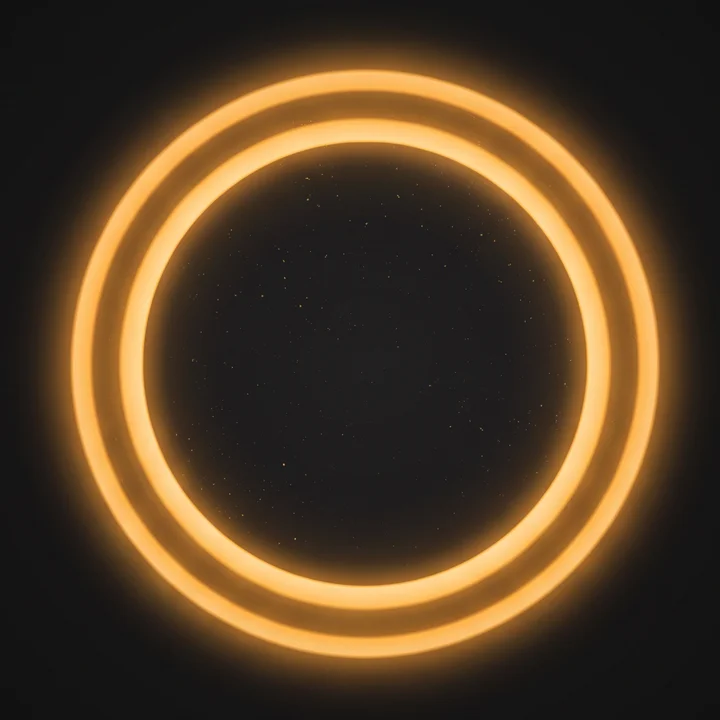
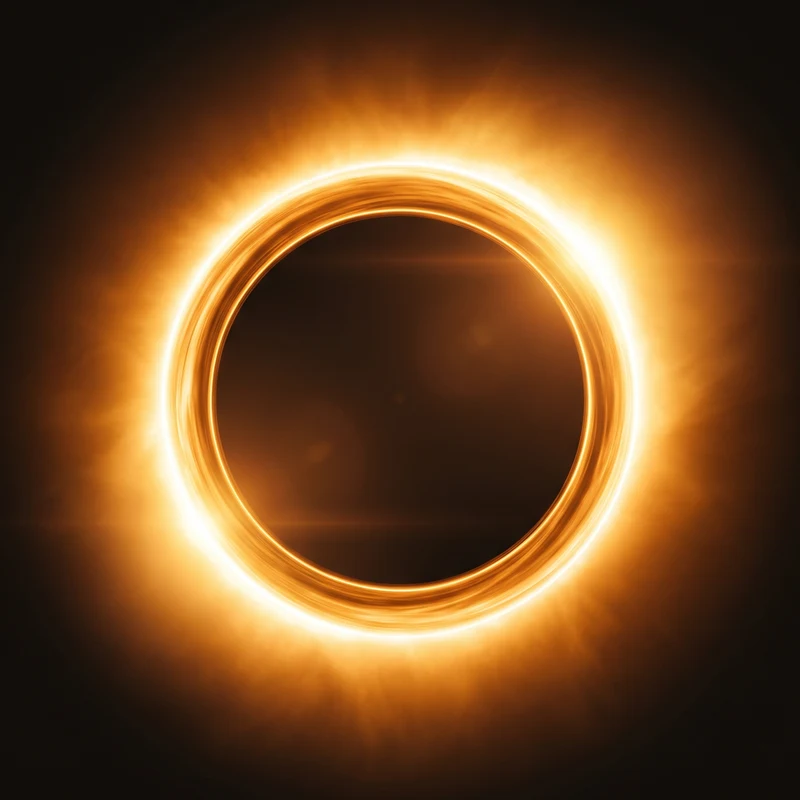
Redesign case study as unified panel with real KPI stats
Wraps the HausManager Pro case study (text, video+ring, KPI row) in a
single bordered panel, matching the reference layout where stats sit
directly below the visual instead of in the text column. Replaces the
qualitative stat tiles with real numbers (20+ hrs/month saved, 1 tool
instead of 5-6, 500 EUR/month saved) and regenerates the Higgsfield ring
with a bolder, more vivid glow to match.

Claude-Session: https://claude.ai/code/session_01Fv5E6jcMdjpaNDmjUW3CLQ

diff --git a/onyx-3d/components/CaseStudySection.tsx b/onyx-3d/components/CaseStudySection.tsx
@@ -1,111 +1,115 @@
 import Image from "next/image";
 
-const stats = [
-  { label: "Vollständig übergeben", sub: "Code, Zugänge & Dokumentation" },
-  { label: "100 % Eigentum", sub: "Kein Onyx-Zugriff mehr danach" },
-  { label: "DSGVO-konform", sub: "Gehostet in Deutschland, mit AVV" },
-  { label: "Im Alltag im Einsatz", sub: "Seit der Übergabe produktiv genutzt" },
+const kpis = [
+  { value: "20+", label: "Std./Monat gespart", sub: "Weniger manueller Aufwand im Tagesgeschäft" },
+  { value: "1 statt 5–6", label: "Tools im Einsatz", sub: "Ein System ersetzt mehrere Abos" },
+  { value: "500 €", label: "Ersparnis/Monat", sub: "≈ 6.000 € im Jahr an Tool-Kosten" },
 ];
 
 export default function CaseStudySection() {
   return (
     <section className="py-24" style={{ borderTop: "1px solid var(--hairline)" }}>
       <div className="mx-auto px-7" style={{ maxWidth: 1180 }}>
-        <div className="grid grid-cols-1 lg:grid-cols-2 gap-12 items-center">
-          <div>
-            <span
-              className="inline-flex items-center gap-2 rounded-full px-4 py-1.5 mb-5 mono"
-              style={{
-                fontSize: 11.5,
-                letterSpacing: "0.05em",
-                textTransform: "uppercase",
-                color: "var(--amber)",
-                background: "var(--amber-soft)",
-                border: "1px solid rgba(232,163,61,0.3)",
-              }}
-            >
-              Kundencase · gebaut &amp; übergeben
-            </span>
-            <h3 style={{ fontSize: "1.4rem", marginBottom: 6 }}>HausManager Pro</h3>
-            <h2 style={{ fontSize: "clamp(1.6rem, 3vw, 2.2rem)", marginBottom: 18 }}>
-              Vom Excel-Chaos zum eigenen System.
-            </h2>
-            <p style={{ color: "var(--warm-grey-dim)", fontSize: "1.02rem", lineHeight: 1.75, marginBottom: 28 }}>
-              Für eine Hausverwaltung haben wir ein komplettes CRM von Grund
-              auf entwickelt und vollständig übergeben. Kein Produkt zum
-              Kaufen, sondern ein Beispiel dafür, was für dein Unternehmen
-              möglich ist.
-            </p>
+        <div
+          className="rounded-2xl p-6 md:p-10"
+          style={{ background: "var(--near-black-2)", border: "1px solid rgba(232,163,61,0.3)" }}
+        >
+          <div className="grid grid-cols-1 lg:grid-cols-2 gap-12 items-center mb-10">
+            <div>
+              <span
+                className="inline-flex items-center gap-2 rounded-full px-4 py-1.5 mb-5 mono"
+                style={{
+                  fontSize: 11.5,
+                  letterSpacing: "0.05em",
+                  textTransform: "uppercase",
+                  color: "var(--amber)",
+                  background: "var(--amber-soft)",
+                  border: "1px solid rgba(232,163,61,0.3)",
+                }}
+              >
+                Kundencase · gebaut &amp; übergeben
+              </span>
+              <h3 style={{ fontSize: "1.4rem", marginBottom: 6 }}>HausManager Pro</h3>
+              <h2 style={{ fontSize: "clamp(1.6rem, 3vw, 2.2rem)", marginBottom: 18 }}>
+                Vom Excel-Chaos zum eigenen System.
+              </h2>
+              <p style={{ color: "var(--warm-grey-dim)", fontSize: "1.02rem", lineHeight: 1.75, marginBottom: 28 }}>
+                Für eine Hausverwaltung haben wir ein komplettes CRM von Grund
+                auf entwickelt und vollständig übergeben. Kein Produkt zum
+                Kaufen, sondern ein Beispiel dafür, was für dein Unternehmen
+                möglich ist.
+              </p>
 
-            <div className="grid grid-cols-2 gap-3.5 mb-7">
-              {stats.map((s, i) => (
-                <div
-                  key={s.label}
-                  className="rounded-xl p-4"
-                  style={{ background: "var(--near-black-2)", border: "1px solid rgba(232,163,61,0.3)" }}
-                >
-                  <span className="mono" style={{ fontSize: 12, color: "var(--amber)" }}>
-                    {String(i + 1).padStart(2, "0")}
-                  </span>
-                  <div style={{ fontWeight: 700, fontSize: "0.95rem", marginTop: 4 }}>{s.label}</div>
-                  <div style={{ fontSize: "0.82rem", color: "var(--warm-grey-faint)", marginTop: 2 }}>
-                    {s.sub}
+              <div className="flex flex-col gap-2.5">
+                {[
+                  "Individuelle Prozessanalyse & Konzept",
+                  "Vollständige Entwicklung im Onyx-Standard",
+                  "Übergabe von Code, Zugängen & Doku",
+                  "Gehostet in Deutschland, DSGVO-konform — 100 % Eigentum beim Kunden",
+                ].map((t) => (
+                  <div key={t} className="flex items-center gap-2.5" style={{ fontSize: "0.95rem", color: "var(--warm-grey-dim)" }}>
+                    <svg viewBox="0 0 24 24" fill="none" stroke="var(--amber)" strokeWidth={2} strokeLinecap="round" strokeLinejoin="round" width={16} height={16}>
+                      <path d="M20 6 9 17l-5-5" />
+                    </svg>
+                    {t}
                   </div>
-                </div>
-              ))}
+                ))}
+              </div>
             </div>
 
-            <div className="flex flex-col gap-2.5">
-              {[
-                "Individuelle Prozessanalyse & Konzept",
-                "Vollständige Entwicklung im Onyx-Standard",
-                "Übergabe von Code, Zugängen & Doku",
-              ].map((t) => (
-                <div key={t} className="flex items-center gap-2.5" style={{ fontSize: "0.95rem", color: "var(--warm-grey-dim)" }}>
-                  <svg viewBox="0 0 24 24" fill="none" stroke="var(--amber)" strokeWidth={2} strokeLinecap="round" strokeLinejoin="round" width={16} height={16}>
-                    <path d="M20 6 9 17l-5-5" />
-                  </svg>
-                  {t}
-                </div>
-              ))}
+            <div className="relative flex items-center justify-center" style={{ minHeight: 380 }}>
+              {/* Spotlight glow ring behind the case-study mockup */}
+              <div
+                aria-hidden
+                className="absolute"
+                style={{ width: 520, height: 520, maxWidth: "100%" }}
+              >
+                <Image
+                  src="/generated/case-study-ring.webp"
+                  alt=""
+                  fill
+                  sizes="520px"
+                  style={{ objectFit: "contain" }}
+                />
+              </div>
+              <div
+                className="relative rounded-xl overflow-hidden"
+                style={{
+                  width: "100%",
+                  maxWidth: 440,
+                  border: "1px solid rgba(232,163,61,0.55)",
+                  boxShadow: "0 24px 60px -20px rgba(0,0,0,0.65)",
+                  background: "#000",
+                }}
+              >
+                <video
+                  controls
+                  preload="none"
+                  playsInline
+                  poster="/assets/hausmanager-poster.jpg"
+                  style={{ width: "100%", display: "block", aspectRatio: "16/9" }}
+                >
+                  <source src="/assets/hausmanager-demo.mp4" type="video/mp4" />
+                </video>
+              </div>
             </div>
           </div>
 
-          <div className="relative flex items-center justify-center" style={{ minHeight: 380 }}>
-            {/* Spotlight glow ring behind the case-study mockup */}
-            <div
-              aria-hidden
-              className="absolute"
-              style={{ width: 640, height: 640, maxWidth: "115%" }}
-            >
-              <Image
-                src="/generated/case-study-ring.webp"
-                alt=""
-                fill
-                sizes="460px"
-                style={{ objectFit: "contain" }}
-              />
-            </div>
-            <div
-              className="relative rounded-xl overflow-hidden"
-              style={{
-                width: "100%",
-                maxWidth: 440,
-                border: "1px solid rgba(232,163,61,0.55)",
-                boxShadow: "0 24px 60px -20px rgba(0,0,0,0.65)",
-                background: "#000",
-              }}
-            >
-              <video
-                controls
-                preload="none"
-                playsInline
-                poster="/assets/hausmanager-poster.jpg"
-                style={{ width: "100%", display: "block", aspectRatio: "16/9" }}
-              >
-                <source src="/assets/hausmanager-demo.mp4" type="video/mp4" />
-              </video>
-            </div>
+          <div
+            className="grid grid-cols-1 sm:grid-cols-3 gap-3.5 pt-8"
+            style={{ borderTop: "1px solid var(--hairline)" }}
+          >
+            {kpis.map((k) => (
+              <div key={k.label} className="text-center sm:text-left">
+                <div className="mono" style={{ fontSize: "1.8rem", fontWeight: 800, color: "var(--amber)", lineHeight: 1.1 }}>
+                  {k.value}
+                </div>
+                <div style={{ fontWeight: 700, fontSize: "0.92rem", marginTop: 6 }}>{k.label}</div>
+                <div style={{ fontSize: "0.8rem", color: "var(--warm-grey-faint)", marginTop: 2 }}>
+                  {k.sub}
+                </div>
+              </div>
+            ))}
           </div>
         </div>
       </div>
